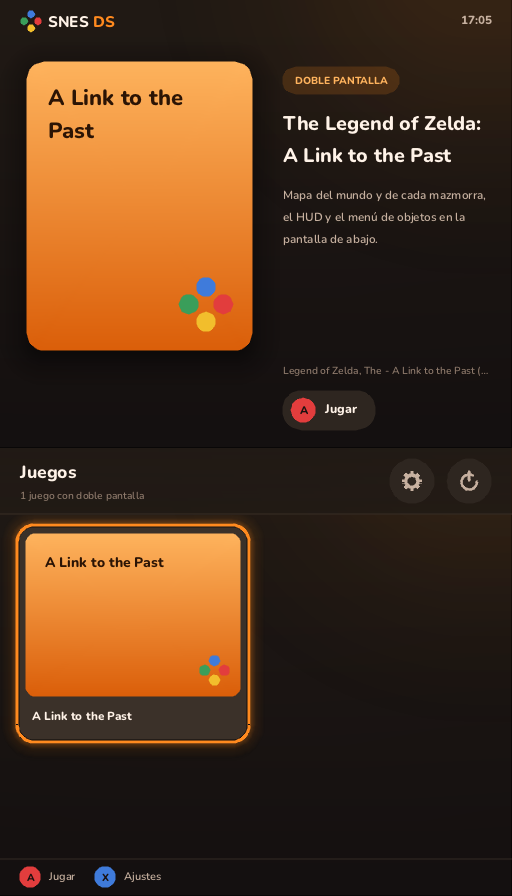
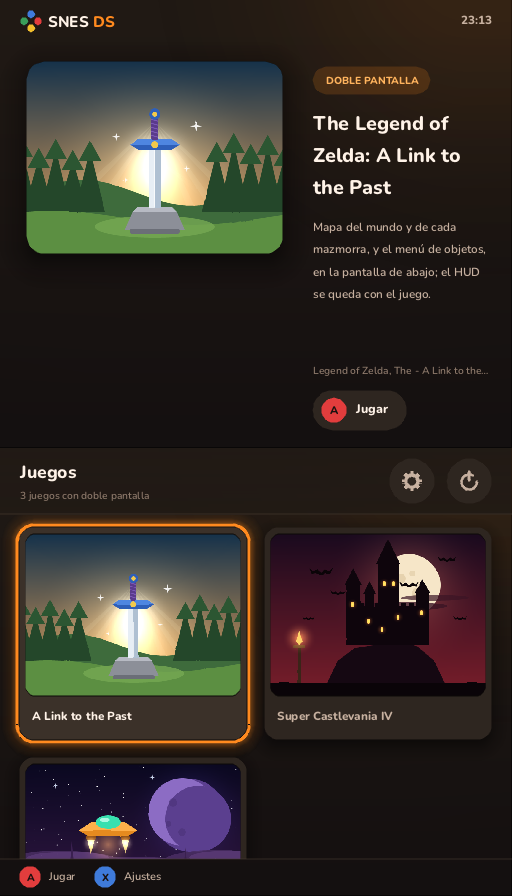
Release 1.0.0
The release candidate, used on the console for some days, becomes 1.0.0.
The README's screenshots show the current interface (the games' icons,
the new controls page), in English and Spanish.

diff --git a/ROADMAP_ES.md b/ROADMAP_ES.md
@@ -32,6 +32,7 @@ Leyenda: ✅ hecho · 🔶 en curso · ⬜ pendiente
 | 0.4.0-dev | Comprobada en la consola: 60 fps sin cortes de audio; el menú se abre con L3 o el botón R (inicio). Partidas, estados y ajustes escritos de forma segura (un apagado no puede corromperlos); el log de velocidad ya no cuenta el tiempo en el menú |
 | 0.5.0 | Dos juegos más, cada uno en su rama: Super Metroid (el mapa de pausa, con el HUD encima) y Super Castlevania IV (el HUD). Un perfil puede recortar la pantalla de juego mientras su HUD está abajo, así la sala de Super Metroid llena la pantalla de arriba. Los dos comprobados en la consola |
 | 0.6.0 | La candidata a 1.0. Controles remapeables en los ajustes; un icono para cada juego en la lista; A Link to the Past deja su HUD en la pantalla del juego. CI en GitHub Actions, `CHANGELOG.md`, las instrucciones de la consola en inglés. Suspender y reanudar, comprobado en la consola |
+| 1.0.0 | La primera versión estable: la candidata, usada en la consola varios días sin problemas |
 
 ## Camino a la 1.0
 
@@ -40,7 +41,7 @@ Leyenda: ✅ hecho · 🔶 en curso · ⬜ pendiente
 | 0.4 | Comprobada en la consola: velocidad, entrada, táctil; partidas que un apagado no puede corromper | ✅ |
 | 0.5 | Un segundo y un tercer juego, en ramas `game/…` (Super Metroid, Super Castlevania IV), con los hooks del motor que necesiten; el formato del perfil se asienta | ✅ |
 | 0.6 (candidata) | Suspender y reanudar, sesiones largas, CI en GitHub Actions, `CHANGELOG.md`, releases en GitHub, las instrucciones de la consola en inglés | ✅ Las sesiones largas son lo que comprueban los días antes de la 1.0 |
-| 1.0.0 | La candidata usada en la consola durante unos días sin problemas | ⬜ |
+| 1.0.0 | La candidata usada en la consola durante unos días sin problemas | ✅ |
 
 Lo que promete la 1.0, una vez publicada (versionado semántico: romper algo de esto obliga a la 2.0): el formato de
 `snes-ds.cfg`, que las partidas y los estados sigan cargando, las opciones de línea de comandos y el formato del

diff --git a/README_ES.md b/README_ES.md
@@ -9,7 +9,7 @@
 
 <p align="center">
   <a href="LICENSE"><img src="https://img.shields.io/badge/licencia-GPL--3.0--or--later-FF8A1F" alt="Licencia: GPL-3.0-or-later"></a>
-  <img src="https://img.shields.io/badge/versi%C3%B3n-0.6.0-FF8A1F" alt="Versión 0.6.0">
+  <img src="https://img.shields.io/badge/versi%C3%B3n-1.0.0-FF8A1F" alt="Versión 1.0.0">
   <img src="https://img.shields.io/badge/plataforma-ROCKNIX%20%7C%20Windows%20%7C%20Linux-3B3129" alt="Plataformas: ROCKNIX, Windows, Linux">
   <img src="https://img.shields.io/badge/lenguaje-C11-3B3129" alt="Lenguaje: C11">
 </p>
@@ -69,8 +69,9 @@ pasan a la segunda pantalla, y un segundo núcleo oculto mantiene allí abierto 
 
 ## Capturas
 
-La consola muestra los dos paneles uno al lado del otro, con la pantalla de arriba a la izquierda. Cuando no hay
-carátula descargada, la app genera una; aquí no se muestra ningún contenido de juegos.
+La consola muestra los dos paneles uno al lado del otro, con la pantalla de arriba a la izquierda. Los iconos de los
+juegos son dibujos originales, que salen cuando no hay carátula descargada; aquí no se muestra ningún contenido de
+juegos.
 
 <p align="center">
   <img src="docs/images/es/library.png" alt="Lista de juegos: el juego elegido en la pantalla de arriba, la lista en la de abajo (táctil)" width="100%">
@@ -80,6 +81,11 @@ carátula descargada, la app genera una; aquí no se muestra ningún contenido d
 <p align="center">
   <img src="docs/images/es/settings.png" alt="Ajustes: arriba qué hace cada ajuste, abajo los ajustes" width="100%">
   <br><sub>Ajustes: arriba qué hace el ajuste elegido, abajo los ajustes.</sub>
+</p>
+
+<p align="center">
+  <img src="docs/images/es/controls.png" alt="Controles: cada botón de la SNES y el botón de la consola en el que está" width="100%">
+  <br><sub>Controles: cada botón de la SNES y el de la consola en el que está; elige uno y pulsa el nuevo botón.</sub>
 </p>
 
 <table>

diff --git a/ROADMAP.md b/ROADMAP.md
@@ -31,6 +31,7 @@ Legend: ✅ done · 🔶 in progress · ⬜ to do
 | 0.4.0-dev | Checked on the console: 60 fps with no audio dropouts; the menu opens with L3 or the R (home) button. Saves, states and settings written safely (a power cut can't corrupt them); the speed log no longer counts time in the menu |
 | 0.5.0 | Two more games, each on its own branch: Super Metroid (the pause map, with the HUD over it) and Super Castlevania IV (the HUD). A profile can crop the game screen while its HUD is below, so Super Metroid's room fills the top screen. Both checked on the console |
 | 0.6.0 | The release candidate. Controls remapped in the settings; an icon for each game in the list; A Link to the Past keeps its HUD on the game screen. CI on GitHub Actions, `CHANGELOG.md`, the device instructions in English. Sleep and resume checked on the console |
+| 1.0.0 | The first stable version: the release candidate, used on the console for some days without problems |
 
 ## The road to 1.0
 
@@ -39,7 +40,7 @@ Legend: ✅ done · 🔶 in progress · ⬜ to do
 | 0.4 | Checked on the console: speed, input, touch; saves that a power cut can't corrupt | ✅ |
 | 0.5 | A second and third game, on `game/…` branches (Super Metroid, Super Castlevania IV), with whatever engine hooks they need; the profile format settles | ✅ |
 | 0.6 (release candidate) | Sleep and resume, long sessions, CI on GitHub Actions, `CHANGELOG.md`, GitHub releases, the device instructions in English | ✅ Long sessions are what the days before 1.0 check |
-| 1.0.0 | The release candidate used on the console for some days without problems | ⬜ |
+| 1.0.0 | The release candidate used on the console for some days without problems | ✅ |
 
 What 1.0 promises, once out (semantic versioning: breaking any of it means 2.0): the `snes-ds.cfg` format, battery
 saves and save states staying loadable, the command-line options, and the profile format game modules are written

diff --git a/README.md b/README.md
@@ -9,7 +9,7 @@
 
 <p align="center">
   <a href="LICENSE"><img src="https://img.shields.io/badge/license-GPL--3.0--or--later-FF8A1F" alt="License: GPL-3.0-or-later"></a>
-  <img src="https://img.shields.io/badge/version-0.6.0-FF8A1F" alt="Version 0.6.0">
+  <img src="https://img.shields.io/badge/version-1.0.0-FF8A1F" alt="Version 1.0.0">
   <img src="https://img.shields.io/badge/platform-ROCKNIX%20%7C%20Windows%20%7C%20Linux-3B3129" alt="Platforms: ROCKNIX, Windows, Linux">
   <img src="https://img.shields.io/badge/language-C11-3B3129" alt="Language: C11">
 </p>
@@ -68,8 +68,8 @@ move to the second screen, and a hidden second emulator core keeps the game's ow
 
 ## Screenshots
 
-The device runs both panels side by side, top screen on the left. Covers are drawn by the app when none has been
-scraped; no game content is shown here.
+The device runs both panels side by side, top screen on the left. The games' icons are original drawings, shown
+when no cover has been scraped; no game content is shown here.
 
 <p align="center">
   <img src="docs/images/library.png" alt="Game list: the chosen game on the top screen, the list on the bottom (touch) screen" width="100%">
@@ -79,6 +79,11 @@ scraped; no game content is shown here.
 <p align="center">
   <img src="docs/images/settings.png" alt="Settings: what each setting does above, the settings below" width="100%">
   <br><sub>Settings: what the chosen setting does above, the settings below.</sub>
+</p>
+
+<p align="center">
+  <img src="docs/images/controls.png" alt="Controls: each SNES button and the console's button it is on" width="100%">
+  <br><sub>Controls: each SNES button, and the console's button it's on; choose one and press the new button.</sub>
 </p>
 
 <table>

diff --git a/CHANGELOG_ES.md b/CHANGELOG_ES.md
@@ -6,6 +6,15 @@ Lo que trajo cada versión de SNES DS. Las versiones siguen el [versionado semá
 antes de la 1.0 todo puede cambiar todavía (ver [lo que promete la 1.0](ROADMAP_ES.md#camino-a-la-10)). Las
 descargas están en la [página de releases](https://github.com/lunasvalle02-design/SNES-DS/releases).
 
+## 1.0.0
+
+La primera versión estable: la 0.6.0, usada en la consola varios días sin problemas. A partir de aquí se cumple
+[lo que promete la 1.0](ROADMAP_ES.md#camino-a-la-10) (el formato de `snes-ds.cfg`, que las partidas y los estados
+sigan cargando, las opciones de línea de comandos y el formato de los perfiles); romper algo de eso sería una 2.0.
+Los arreglos llegan como 1.0.x.
+
+- Las capturas del README muestran la interfaz actual: los iconos de los juegos y la página de controles.
+
 ## 0.6.0 — la candidata a 1.0
 
 ### Añadido

diff --git a/CHANGELOG.md b/CHANGELOG.md
@@ -6,6 +6,14 @@ What each version of SNES DS brought. Versions follow [semantic versioning](http
 may still change (see [what 1.0 promises](ROADMAP.md#the-road-to-10)). Downloads are on the
 [releases page](https://github.com/lunasvalle02-design/SNES-DS/releases).
 
+## 1.0.0
+
+The first stable version: 0.6.0, used on the console for some days without problems. From here on, what
+[1.0 promises](ROADMAP.md#the-road-to-10) holds (the `snes-ds.cfg` format, battery saves and save states staying
+loadable, the command-line options and the profile format); breaking any of it would mean 2.0. Fixes come as 1.0.x.
+
+- The README's screenshots show the current interface: the games' icons and the controls page.
+
 ## 0.6.0 — the release candidate
 
 ### Added
